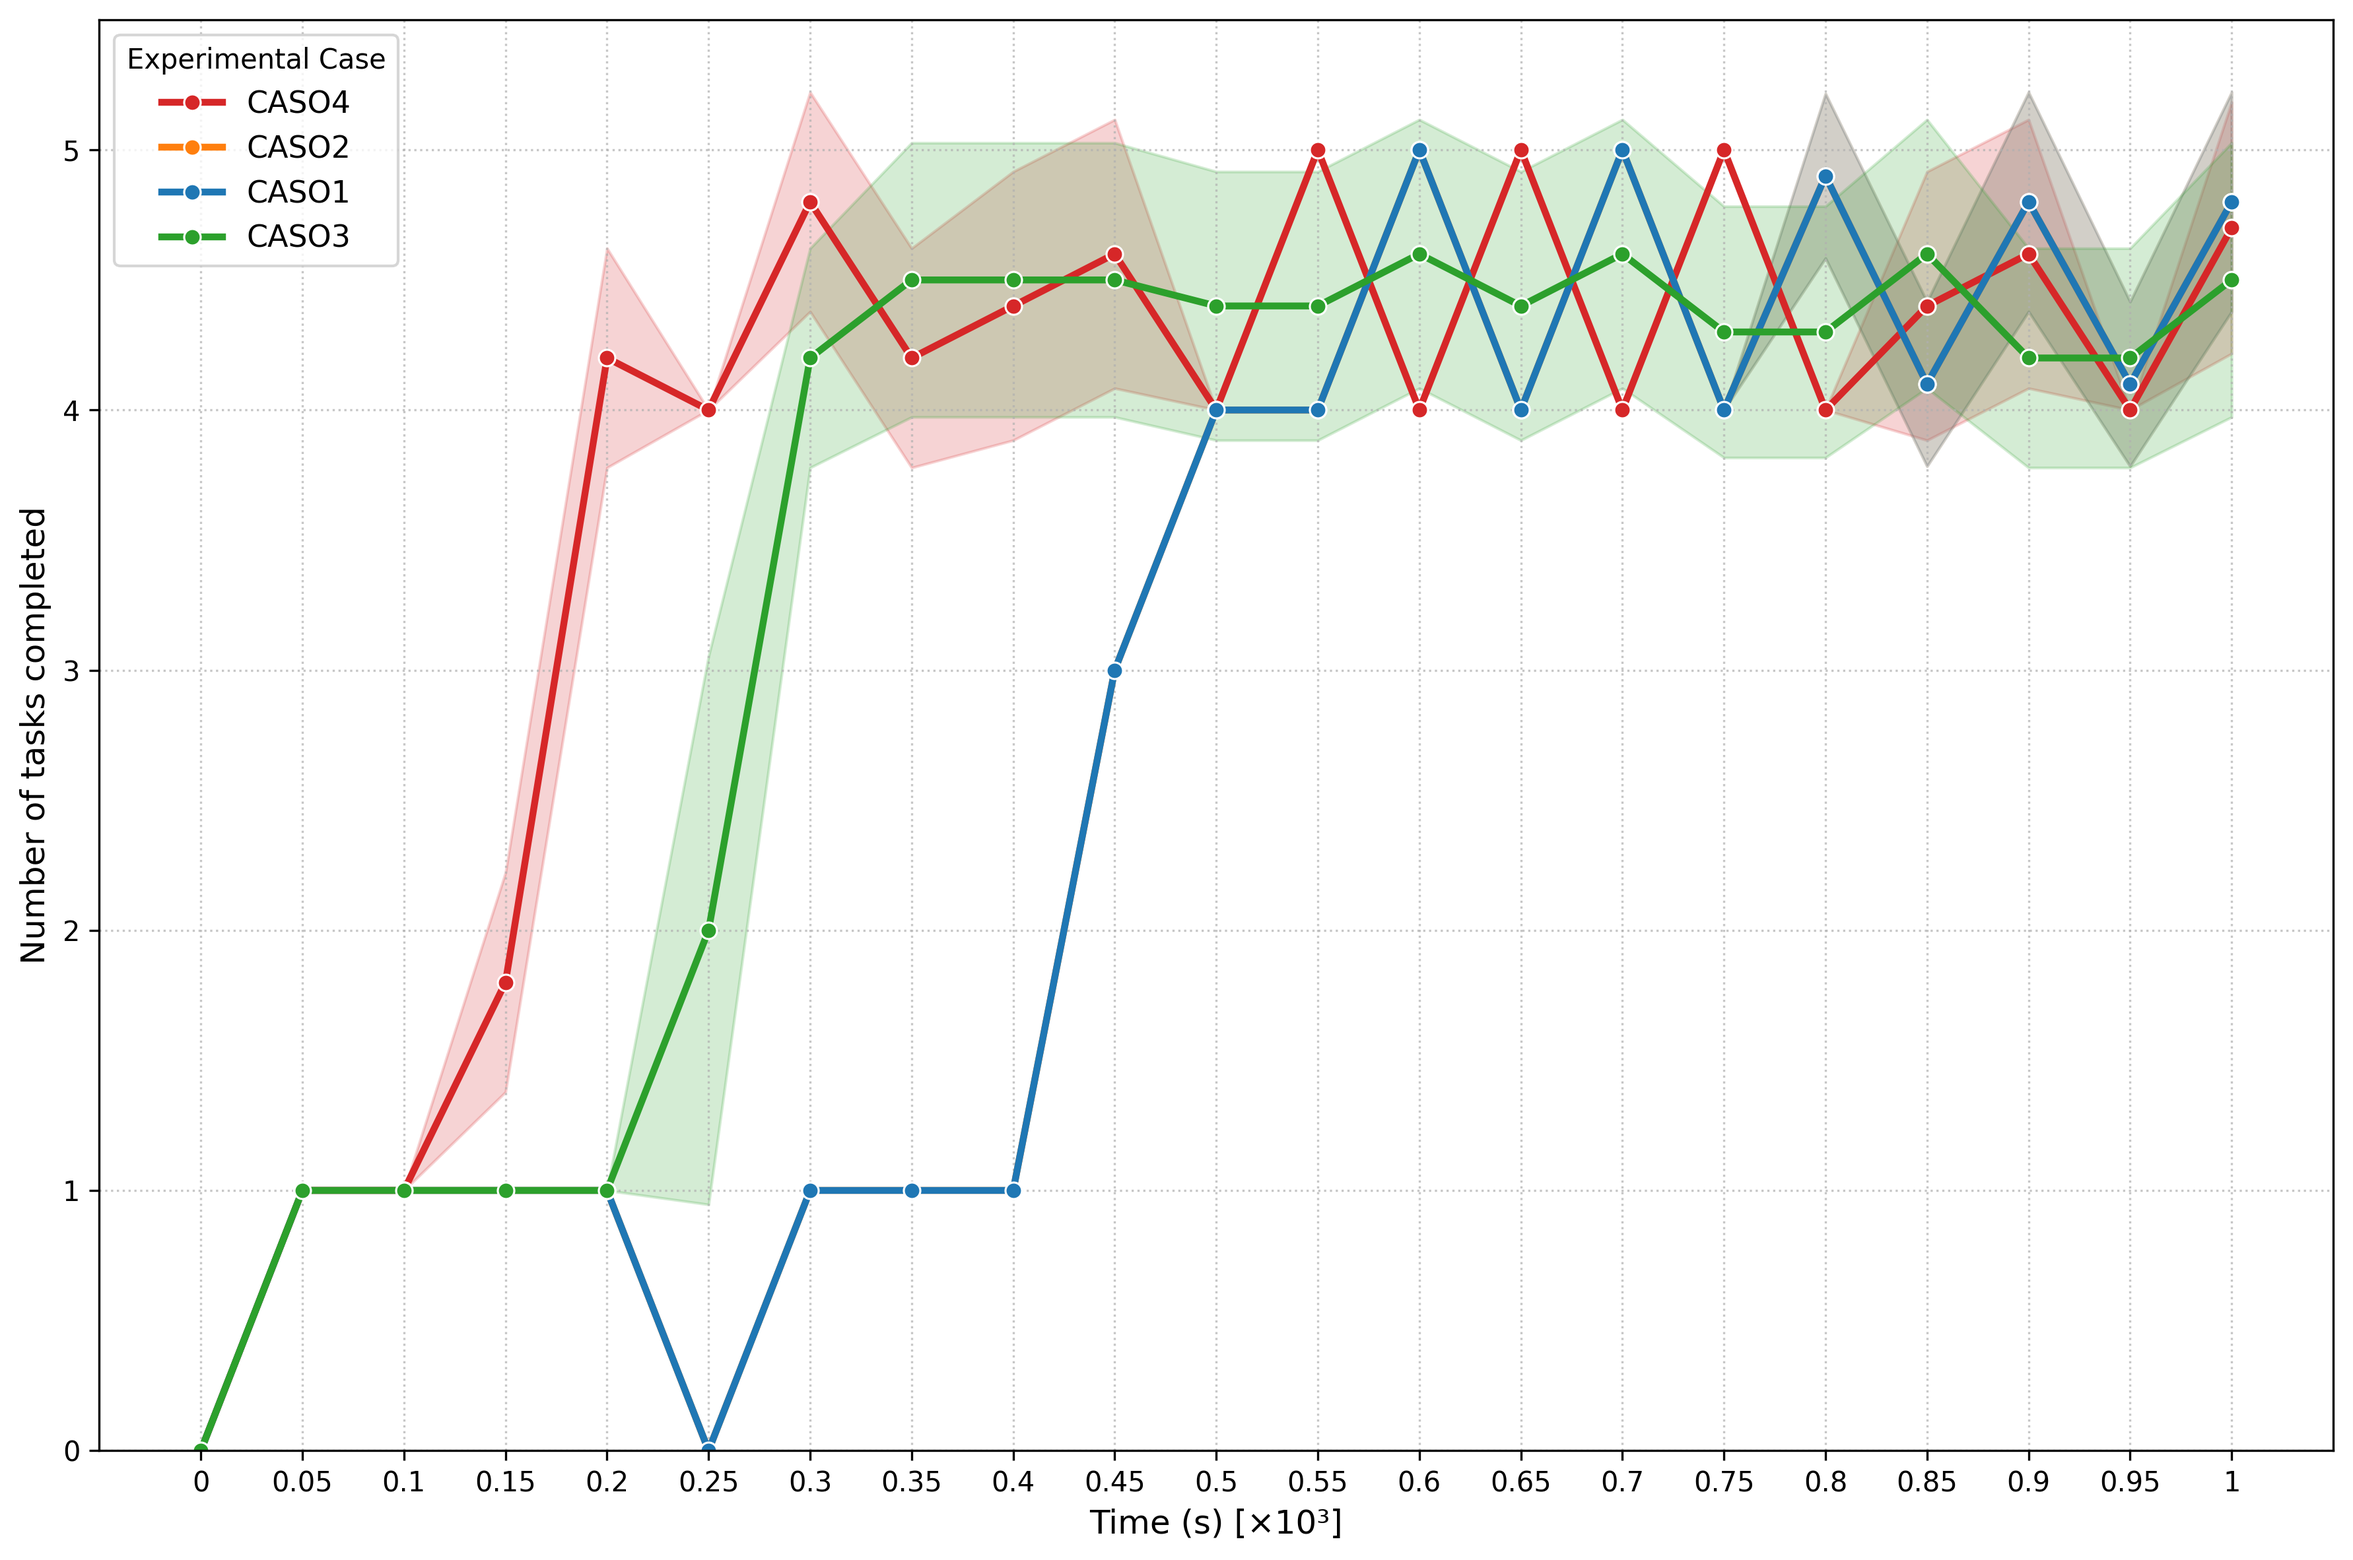
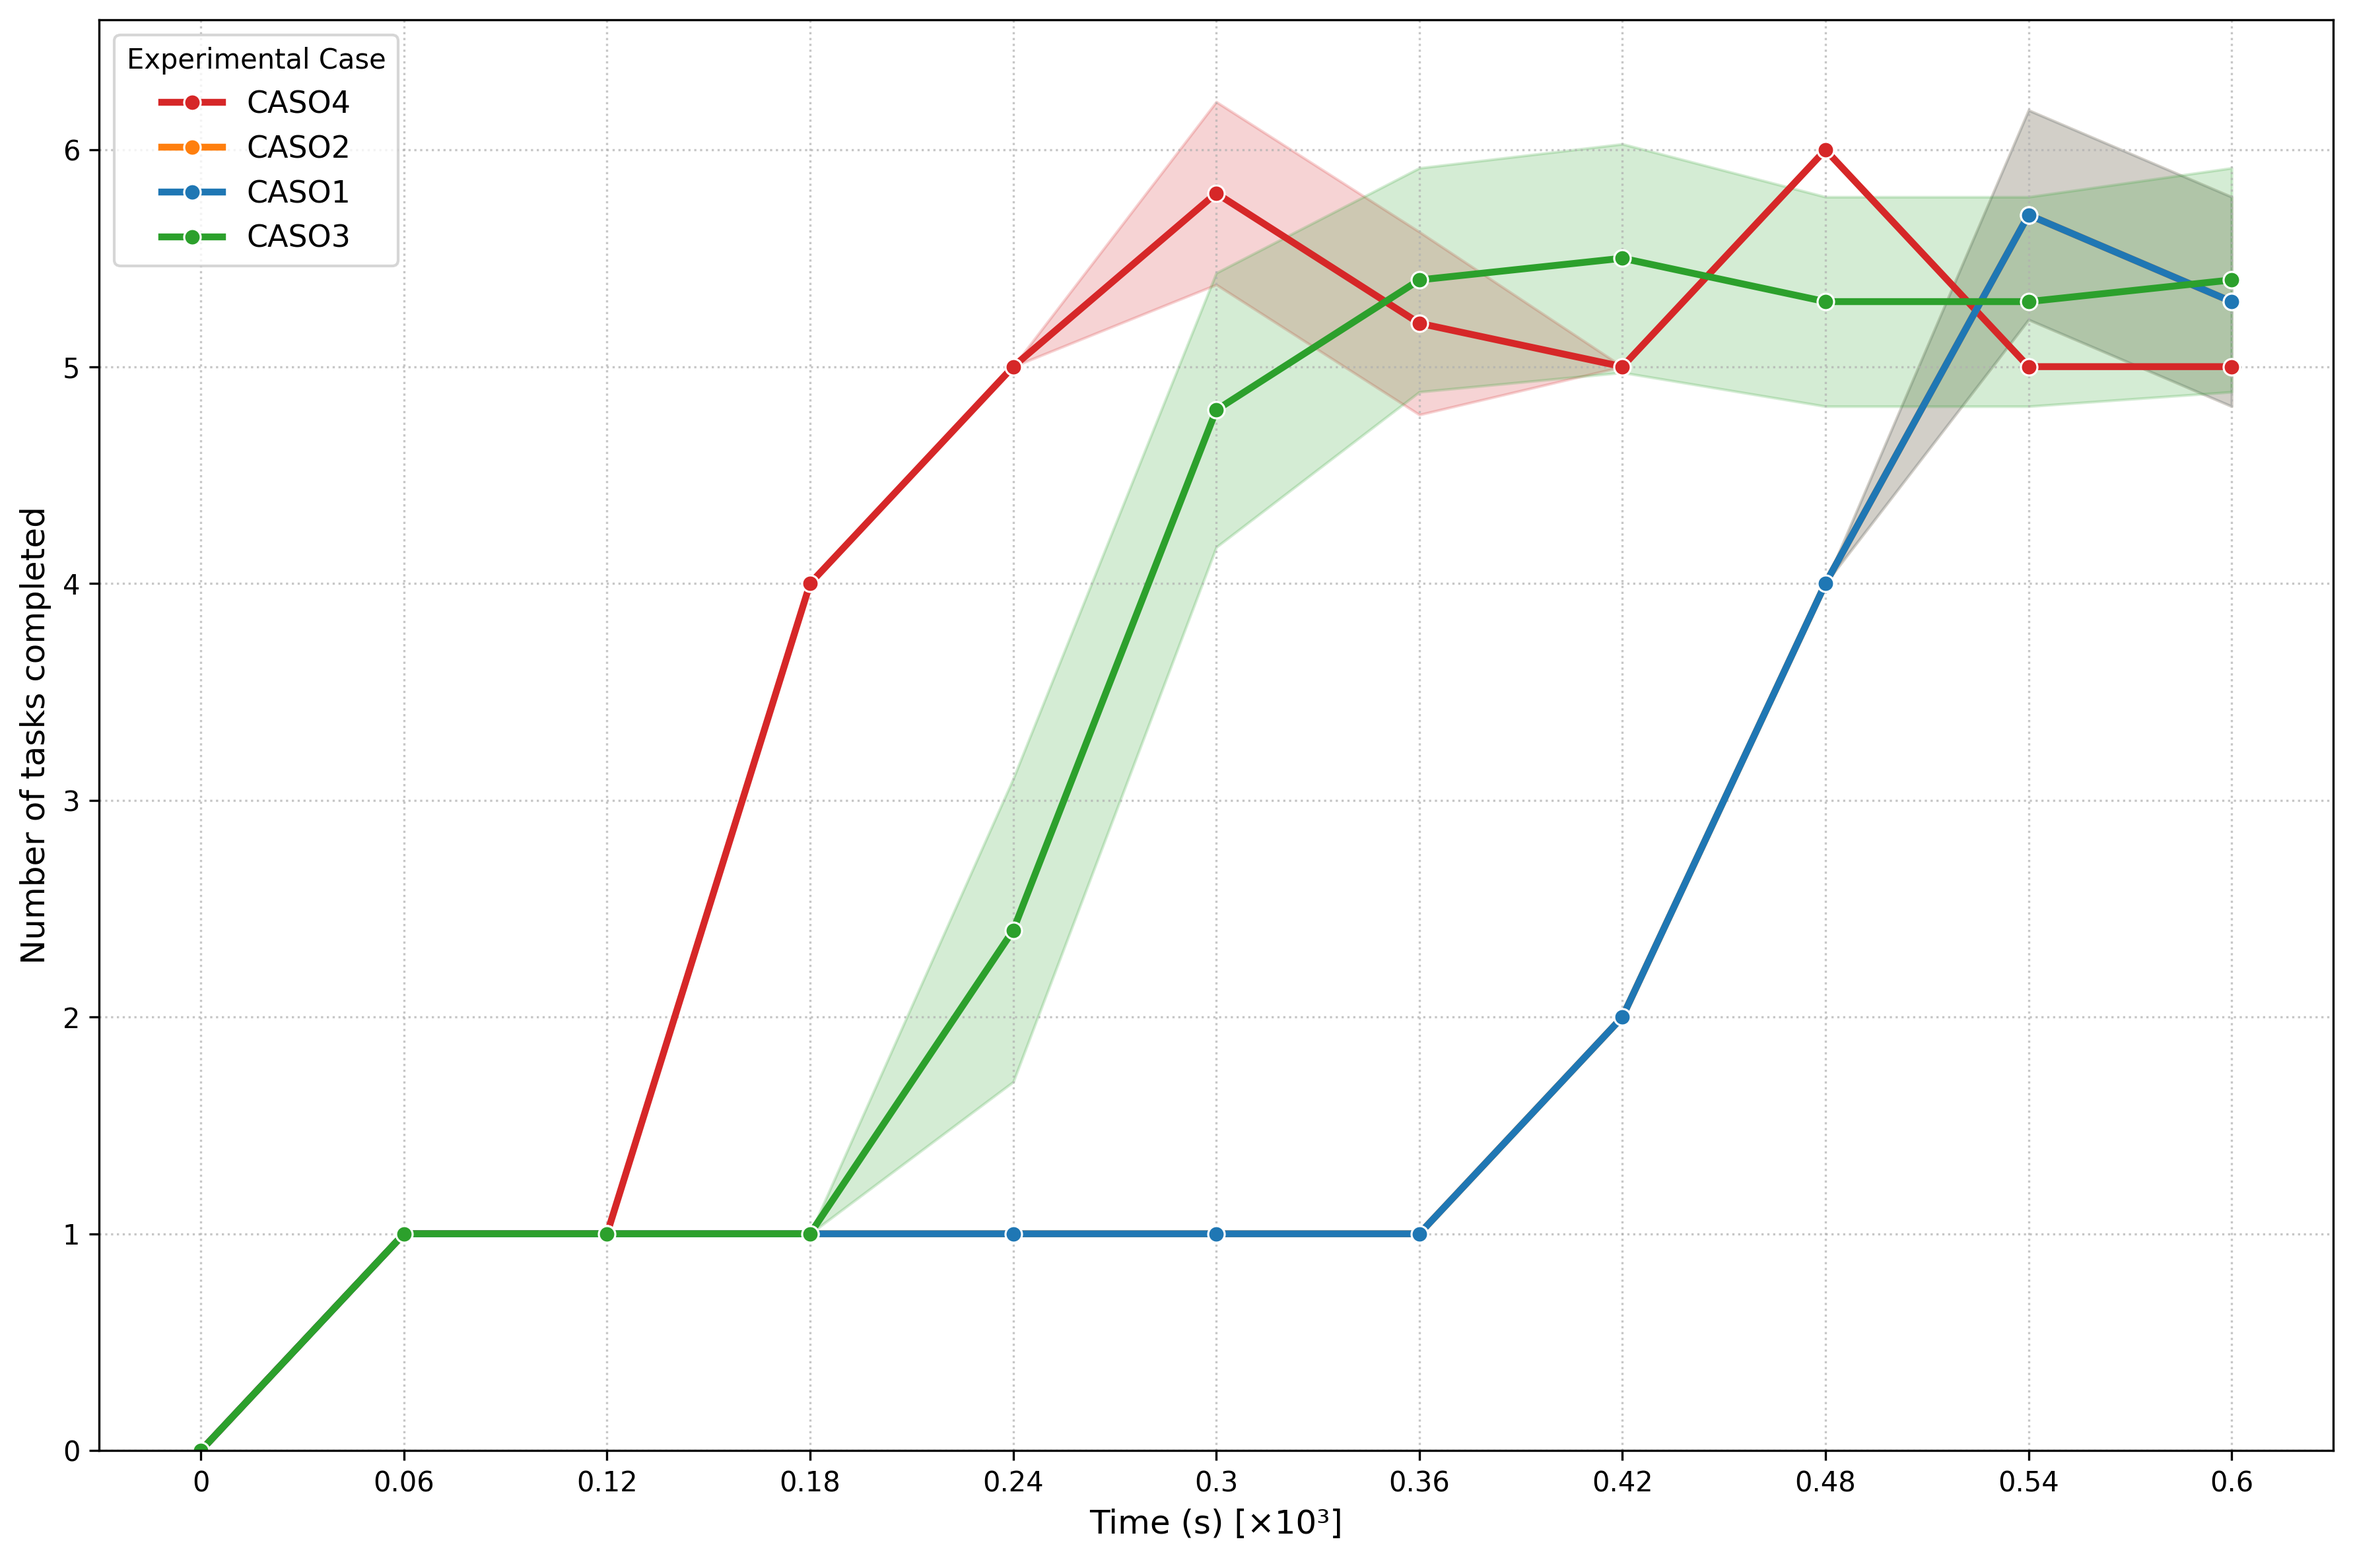
Arreglos en los códigos y procesamiento de resultados.

diff --git a/casos_data.py b/casos_data.py
@@ -34,7 +34,7 @@ def load_and_merge_data() -> pd.DataFrame:
     """Recorre las carpetas de los casos, lee los CSV y los combina."""
     all_data = []
     
-    for i in range(1, 7):
+    for i in range(1, 5):
         caso_name = f"CASO{i}"
         csv_path = BASE_DIR / caso_name / "experiment_data.csv"
         
@@ -69,12 +69,12 @@ def load_and_merge_data() -> pd.DataFrame:
     master_df = pd.concat(all_data, ignore_index=True)
     return master_df
 
-def plot_comparative_performance(df: pd.DataFrame, save_path: str):
+def plot_comparative_performance(df: pd.DataFrame, save_path: str, window_sec: int = 1000,max_time_sec: int = 10000):
     logger.info("Generando gráfica comparativa de Performance...")
     
-    dff = df[(df['time_sec'] >= 0) & (df['time_sec'] <= MAX_TIME_SEC)].copy()
-    dff['time_window'] = (np.ceil(dff['time_sec'] / WINDOW_SEC) * WINDOW_SEC).astype(int)
-    dff = dff[(dff['time_window'] > 0) & (dff['time_window'] <= MAX_TIME_SEC)]
+    dff = df[(df['time_sec'] >= 0) & (df['time_sec'] <= max_time_sec)].copy()
+    dff['time_window'] = (np.ceil(dff['time_sec'] / window_sec) * window_sec).astype(int)
+    dff = dff[(dff['time_window'] > 0) & (dff['time_window'] <= max_time_sec)]
     
     perf = dff.groupby(['caso', 'strategy', 'seed', 'time_window']).size().reset_index(name='tasks_in_window')
     perf['tasks_completed'] = perf.groupby(['caso', 'strategy', 'seed'])['tasks_in_window'].cumsum()
@@ -103,11 +103,11 @@ def plot_comparative_performance(df: pd.DataFrame, save_path: str):
                 marker='o', markersize=5, linewidth=2, estimator=np.median,
                 errorbar=None, ax=ax
             )
-            
+            ax.set_xlim(0, max_time_sec)
             ax.set_title(f"Performance (Acumulado) - {strat.capitalize()} Strategy", fontsize=14, fontweight='bold')
             ax.set_xlabel("Time (s) [×10³]", fontsize=12)
             
-            # ---> SOLUCIÓN EJES X: Formateador nativo para evitar los 0,0,1,1 <---
+            # ejes en notacion cientifica para el eje x
             ax.xaxis.set_major_formatter(ticker.FuncFormatter(lambda x, pos: f"{x/1000:g}"))
             
             ax.grid(True, linestyle=':', alpha=0.7)
@@ -121,13 +121,13 @@ def plot_comparative_performance(df: pd.DataFrame, save_path: str):
     plt.savefig(save_path, dpi=300, bbox_inches='tight')
     plt.show()
 
-def plot_comparative_f_measure(df: pd.DataFrame, save_path: str):
+def plot_comparative_f_measure(df: pd.DataFrame, save_path: str, window_sec: int = 1000, max_time_sec: int = 10000):
     logger.info("Generando gráfica comparativa de F-Measure...")
     
-    dff = df[(df['time_sec'] >= 0) & (df['time_sec'] <= MAX_TIME_SEC)].copy()
+    dff = df[(df['time_sec'] >= 0) & (df['time_sec'] <= max_time_sec)].copy()
     dff = dff[dff['task'].isin(['BLUE', 'RED'])]
-    dff['time_window'] = (np.ceil(dff['time_sec'] / WINDOW_SEC) * WINDOW_SEC).astype(int)
-    dff = dff[(dff['time_window'] > 0) & (dff['time_window'] <= MAX_TIME_SEC)]
+    dff['time_window'] = (np.ceil(dff['time_sec'] / window_sec) * window_sec).astype(int)
+    dff = dff[(dff['time_window'] > 0) & (dff['time_window'] <= max_time_sec)]
     
     dff = dff.sort_values(by=['caso', 'strategy', 'seed', 'time_window', 'tick'])
     dff['prev_task'] = dff.groupby(['caso', 'strategy', 'seed', 'time_window'])['task'].shift(1)
@@ -154,11 +154,11 @@ def plot_comparative_f_measure(df: pd.DataFrame, save_path: str):
                 marker='s', markersize=8, linewidth=2, estimator=np.median,
                 errorbar=None, ax=ax
             )
-            
+            ax.set_xlim(0, max_time_sec)
             ax.set_title(f"F-Measure (Specialization) - {strat.capitalize()} Strategy", fontsize=14, fontweight='bold')
             ax.set_xlabel("Time (s) [×10³]", fontsize=12)
             
-            # ---> SOLUCIÓN EJES X <---
+            # ejes en notacion cientifica para el eje x
             ax.xaxis.set_major_formatter(ticker.FuncFormatter(lambda x, pos: f"{x/1000:g}"))
             
             ax.set_ylim(-0.1, 1.1)
@@ -173,10 +173,10 @@ def plot_comparative_f_measure(df: pd.DataFrame, save_path: str):
     plt.savefig(save_path, dpi=300, bbox_inches='tight')
     plt.show()
 
-def plot_comparative_m_evolution(df: pd.DataFrame, save_path: str):
+def plot_comparative_m_evolution(df: pd.DataFrame, save_path: str, window_sec: int = 1000, max_time_sec: int = 10000):
     logger.info("Generando gráfica comparativa de la variable 'm'...")
     
-    dff = df[(df['time_sec'] >= 0) & (df['time_sec'] <= MAX_TIME_SEC)].copy()
+    dff = df[(df['time_sec'] >= 0) & (df['time_sec'] <= max_time_sec)].copy()
     
     fig, axes = plt.subplots(1, 2, figsize=(18, 8), sharey=True)
     casos_order = sorted(dff['caso'].unique())
@@ -187,18 +187,18 @@ def plot_comparative_m_evolution(df: pd.DataFrame, save_path: str):
         strat_data = dff[dff['strategy'] == strat]
         
         if not strat_data.empty:
-            # ---> SOLUCIÓN M: Graficar time_sec directo, sin ventanas, para ver la curva real <---
+            # Graficar time_sec directo, sin ventanas, para ver la curva real 
             sns.lineplot(
                 data=strat_data, x='time_sec', y='m',
                 hue='caso', hue_order=casos_order, palette=palette,
                 marker='o', markersize=4, linewidth=2, estimator=np.mean,
                 errorbar=None, ax=ax
             )
-            
+            ax.set_xlim(0, max_time_sec)
             ax.set_title(f"Evolución de Memoria ('m') - {strat.capitalize()} Strategy", fontsize=14, fontweight='bold')
             ax.set_xlabel("Time (s) [×10³]", fontsize=12)
             
-            # ---> SOLUCIÓN EJES X <---
+            # EJES X 
             ax.xaxis.set_major_formatter(ticker.FuncFormatter(lambda x, pos: f"{x/1000:g}"))
             
             ax.axhline(0, color='gray', linestyle='--', alpha=0.5)
@@ -216,6 +216,10 @@ def plot_comparative_m_evolution(df: pd.DataFrame, save_path: str):
 def main():
     OUTPUT_DIR.mkdir(parents=True, exist_ok=True)
     
+    # Definir el tiempo máximo para las gráficas comparativas
+    WINDOW_SEC = 60
+    MAX_TIME_SEC = 600    
+
     try:
         # Cargar todos los datos
         master_df = load_and_merge_data()
@@ -224,17 +228,23 @@ def main():
         # Generar Gráficas Comparativas
         plot_comparative_performance(
             master_df, 
-            save_path=str(OUTPUT_DIR / "comparativa_performance_lineas.png")
+            save_path=str(OUTPUT_DIR / "comparativa_performance_lineas.png"),
+            window_sec=WINDOW_SEC,
+            max_time_sec=MAX_TIME_SEC
         )
         
         plot_comparative_f_measure(
             master_df, 
-            save_path=str(OUTPUT_DIR / "comparativa_fmeasure_lineas.png")
+            save_path=str(OUTPUT_DIR / "comparativa_fmeasure_lineas.png"),
+            window_sec=WINDOW_SEC,
+            max_time_sec=MAX_TIME_SEC
         )
         
         plot_comparative_m_evolution(
             master_df,
-            save_path=str(OUTPUT_DIR / "comparativa_m_evolution_lineas.png")
+            save_path=str(OUTPUT_DIR / "comparativa_m_evolution_lineas.png"),
+            window_sec=WINDOW_SEC,
+            max_time_sec=MAX_TIME_SEC
         )
         
         logger.info(f"¡Proceso finalizado! Las gráficas están en: {OUTPUT_DIR}")

diff --git a/run_data_process.py b/run_data_process.py
@@ -731,8 +731,8 @@ class SpecializationScatterPlotter:
 # ------------------------------------------------------------------
 def main():
     # Update paths to match the new automated setup
-    csv_path = r"/home/gmadro/EXP_CASOS/CASO4/experiment_data.csv"
-    output_dir = r"/home/gmadro/EXP_CASOS/CASO4/processing_data"
+    csv_path = r"/home/gmadro/EXP_CASOS/CASO1/experiment_data.csv"
+    output_dir = r"/home/gmadro/EXP_CASOS/CASO1/processing_data"
     
     try:
         processor = RobotDataProcessor(csv_path, output_dir)
@@ -773,21 +773,21 @@ def main():
 
         # 4. Figure 6 - Performance Boxplot
         processor.plot_performance_boxplot(
-            window_sec=100,
-            max_time_sec=2000,
+            window_sec=1000,
+            max_time_sec=10000,
             save_path=f"{output_dir}/figure6_performance_boxplot.png"
         )
 
         # 5. Time search expend for the task distribution - Violin plot
         processor.plot_search_time_distribution(
-            max_time_sec=2000,
+            max_time_sec=10000,
             save_path=f"{output_dir}/figure_search_time_.png"
         )
 
         # 6. Figure 10 - F-measure Boxplot
         processor.plot_f_measure_boxplot(
-            window_sec=100,
-            max_time_sec=2000,
+            window_sec=1000,
+            max_time_sec=10000,
             save_path=f"{output_dir}/figure_f_measure_boxplot.png"
         )
 

diff --git a/data_process_EXP.py b/data_process_EXP.py
@@ -455,21 +455,21 @@ def main():
             
         # 2. Curva de Tendencia de Rendimiento (Líneas continuas)
         processor.plot_performance_trend(
-            window_sec=50,  
-            max_time_sec=1000,
+            window_sec=60,  
+            max_time_sec=600,
             save_path=f"{output_dir}/figure6_performance_trend_cases.png"
         )
 
         # 3. Violin plot
         processor.plot_search_time_distribution(
-            max_time_sec=1000,
+            max_time_sec=600,
             save_path=f"{output_dir}/figure_search_time_cases.png"
         )
 
         # 4. F-measure Boxplot
         processor.plot_f_measure_boxplot(
-            window_sec=50,  
-            max_time_sec=1000,
+            window_sec=60,  
+            max_time_sec=600,
             save_path=f"{output_dir}/figure_f_measure_boxplot_cases.png"
         )
         

diff --git a/EXP-REALES-CASOS/casos_data_realEXP.py b/EXP-REALES-CASOS/casos_data_realEXP.py
@@ -25,7 +25,7 @@ WINDOW_SEC = 60       # Ventana de evaluación sugerida para hardware real
 MAX_TIME_SEC = 600    # Duración máxima del experimento real
 
 # Ruta base donde se encuentran las carpetas CASO1, CASO2, ..., CASO6
-BASE_DIR = Path(r"/home/gmadro/EXP_CASOS/EXP-REAL-CASOS")
+BASE_DIR = Path(r"/home/gmadro/EXP_CASOS/EXP-REALES-CASOS")
 # Carpeta donde se guardarán las gráficas comparativas
 OUTPUT_DIR = BASE_DIR / "COMPARATIVA_GLOBAL"
 
@@ -34,8 +34,8 @@ def load_and_merge_data() -> pd.DataFrame:
     all_data = []
     
     # Asume que tienes de CASO1 a CASO6, ajusta el rango si tienes más o menos
-    for i in range(1, 3):
-        i=i+1
+    for i in range(1, 5):
+        #i=i+1
         caso_name = f"CASO{i}"
         csv_path = BASE_DIR / caso_name / "experiment_data.csv"
         
